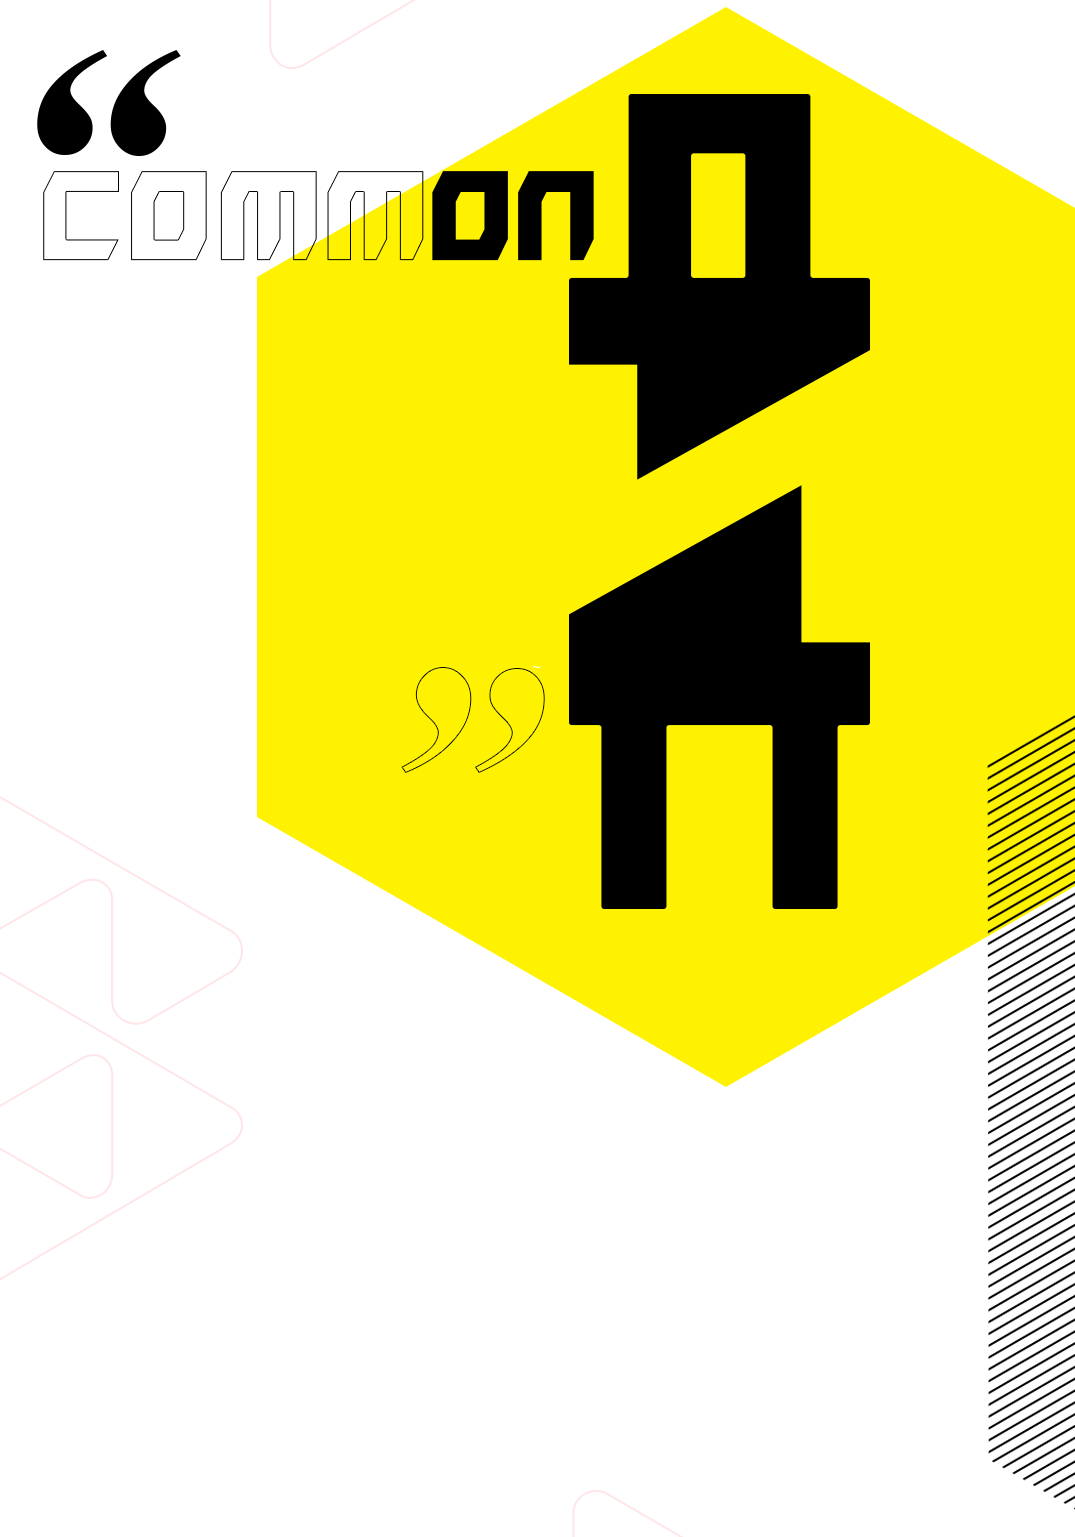
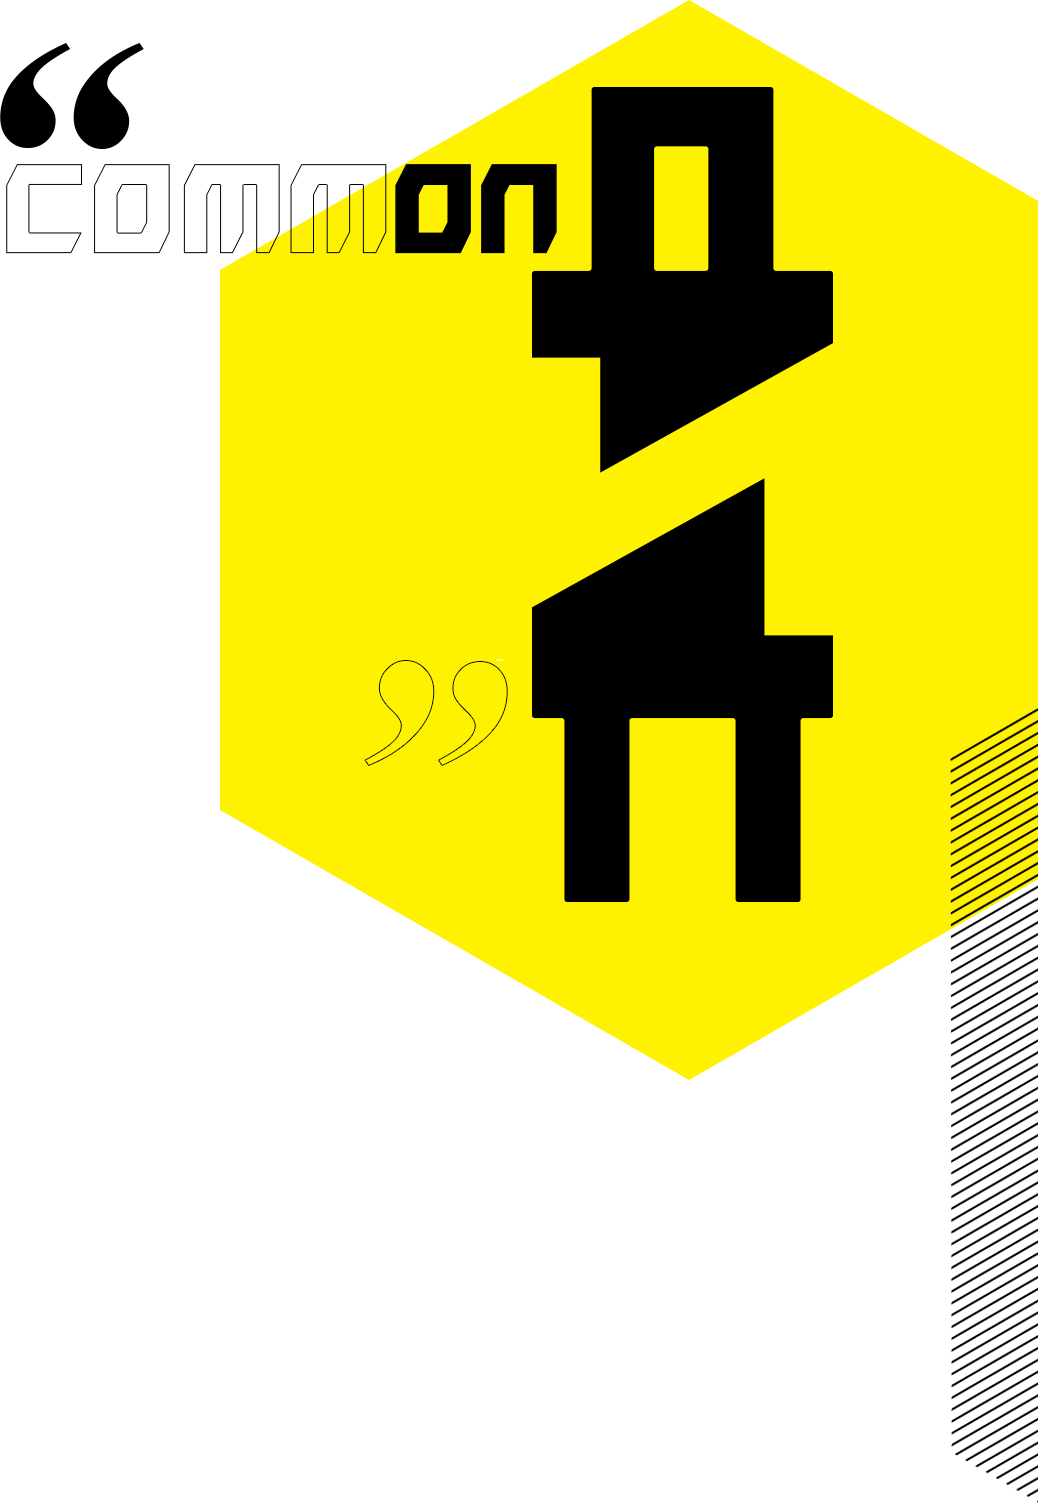
main card type 작업완료, 배열 작업중

diff --git a/src/css/03_card.css b/src/css/03_card.css
@@ -1,4 +1,5 @@
-.cardWrap{min-width:1220px;margin:40px -20px 0 0;z-index: 0;}
+.cardBox {width:1500px; overflow:hidden;}
+.cardWrap{min-width:1220px;margin:40px -20px 0 0;z-index: 1;}
 .cardWrap > li{overflow: hidden;float: left;width:285px;padding:84px 0; margin-top:-148px; text-align: center;color:#fefefe;background-size: 100%;background-position: center;}
 .cardWrap {padding-top:83px;}
 
@@ -7,18 +8,42 @@
 .cardLayer .cardWrap li {position:relative; background:none;}
 .cardLayer .cardWrap li + li {margin-left:10px;}
 
-.cardTitle {}
-.cardTitle .cardTitleCont {width:100%; position:relative;}
-.cardTitle .cardTitleCont .cardTitleBg {position:absolute; top:0; left:0;}
-.cardTitle.newForm {width:590px; height:716px; position:absolute; top:1292px; left:20px; background:green;}
-.cardTitle.common {width:896px; height:1064px; position:absolute; top:3034px; right:20px; background:green;}
-.cardTitle.specialist {width:1201px; height:1064px; position:absolute; top:5122px; right:20px; background:green;}
+.cardTitle {}/* z-index:3; */
+.cardTitle .cardTitleCont {width:100%; height:100%; position:relative;}
+.cardTitle .cardTitleCont .cardTitleBg {position:absolute; z-index:0;}
+.cardTitle .cardTitleCont .cardTitleSub {overflow:hidden; position:absolute;}
+.cardTitle .cardTitleCont .cardTitleSub .txt {color:#000; font-size:18px; font-family:'RobotoT','NotoSansT', sans-serif; line-height:130%;}
+.cardTitle .cardTitleCont .cardTitleSub .txt b {font-family:'RobotoM','NotoSansM', sans-serif;}
+.cardTitle .cardTitleCont .cardTitleSub a.more {display:inline-block; padding:14px 92px 14px 0; color:#000; font-size:14px; font-family:'RobotoL','NotoSansL', sans-serif; line-height:130%; background:url('../images/main_cardMore_btn.png') 100% 50% no-repeat;}
+.cardTitle .cardTitleCont .cardTitleSub a.more b {font-family:'RobotoM','NotoSansM', sans-serif;}
+.cardTitle.newForm {width:590px; height:716px; position:absolute; top:1292px; left:20px;}
+.cardTitle.newForm .cardTitleCont .cardTitleSub {width:368px; overflow:hidden; top:352px; right:0;}
+.cardTitle.newForm .cardTitleCont .cardTitleSub .more {margin-top:66px; float:right;}
+.cardTitle.common {width:896px; height:1064px; position:absolute; top:3034px; right:20px;}
+.cardTitle.common .cardTitleCont .cardTitleSub {width:619px; top:393px; left:0;}
+.cardTitle.common .cardTitleCont .cardTitleSub .txt {font-size:35px; text-align:right;}
+.cardTitle.specialist {width:1201px; height:1064px; position:absolute; top:5122px; right:20px;}
+.cardTitle.specialist .cardTitleCont .cardTitleSub {width:540px; top:71px; right:0;}
+.cardTitle.specialist .cardTitleCont .cardTitleSub .txt {width:100%; height:72px;}
+.cardTitle.specialist .cardTitleCont .cardTitleSub a.more {margin-top:175px; float:right;}
 .cardTitle.master {width:1201px; height:890px; position:absolute; top:7036px; left:20px; background:green;}
+.cardTitle.master .cardTitleCont .cardTitleSub {width:718px; margin-bottom:15px; top:781px; left:22px;}
+.cardTitle.master .cardTitleCont .cardTitleSub .txt {width:443px; float:left; font-size:18px;}
+.cardTitle.master .cardTitleCont .cardTitleSub .txt img {width:101px;}
+.cardTitle.master .cardTitleCont .cardTitleSub a.more {width:153px; float:right; text-align:right;}
+.cardTitle.master .cardTitleCont dl.cardTitleForm {width:754px; height:824px; background:url('../images/main_bg_master_form.png') 0 0 no-repeat; position:absolute; top:0; right:-111px;}
+.cardTitle.master .cardTitleCont dl.cardTitleForm dt {width:100%; padding:109px 0 56px; font-size:49px; color:#fdfdfb; text-align:center; font-family:'RobotoT','NotoSansT', sans-serif; font-style:italic;}
+.cardTitle.master .cardTitleCont dl.cardTitleForm dd {width:590px; padding-left:12px;}
+.cardTitle.master .cardTitleCont dl.cardTitleForm dd p.phoneTit {width:100%; text-align:center; font-size:20px; font-family:'RobotoR','NotoSansR', sans-serif; color:#fff;}
+.cardTitle.master .cardTitleCont dl.cardTitleForm dd .phoneIt {width:100%; text-align:center;}
+.cardTitle.master .cardTitleCont dl.cardTitleForm dd .phoneIt {}
+.cardTitle.master .cardTitleCont dl.cardTitleForm dd .phoneIt input[type=text] {float:left;}
+.cardTitle.master .cardTitleCont dl.cardTitleForm dd .phoneIt input[type=text] + input[type=text] {margin-left:5px;}
 
-.cardTitle.newForm .cardTitleCont .cardTitleBg {width:805px; height:1849px; background:url('../images/main_bg_newForm.png') 0 0 no-repeat;}
-.cardTitle.common .cardTitleCont .cardTitleBg {width:1075px; height:1537px; background:url('../images/main_bg_common.png') 0 0 no-repeat;}
-.cardTitle.specialist .cardTitleCont .cardTitleBg {width:1427px; height:1660px; background:url('../images/main_bg_specialist.png') 0 0 no-repeat;}
-.cardTitle.master .cardTitleCont .cardTitleBg {width:1006px; height:1271px; background:url('../images/main_bg_master.png') 0 0 no-repeat;}
+.cardTitle.newForm .cardTitleCont .cardTitleBg {width:805px; height:1849px; top:28px; right:0; background:url('../images/main_bg_newForm.png') 0 0 no-repeat;}
+.cardTitle.common .cardTitleCont .cardTitleBg {width:1075px; height:1537px; top:19px; left:65px; background:url('../images/main_bg_common.png') 0 0 no-repeat;}
+.cardTitle.specialist .cardTitleCont .cardTitleBg {width:1427px; height:1660px; top:-181px; left:-20px; background:url('../images/main_bg_specialist.png') 0 0 no-repeat;}
+.cardTitle.master .cardTitleCont .cardTitleBg {width:1006px; height:1271px; top:-274px; right:400px; background:url('../images/main_bg_master.png') 0 0 no-repeat;}
 
 /* hexagon css */
 .hexagon{position: absolute;top:85px;left: 0;width: 100%;background-position: center;background-repeat: no-repeat;margin: 82.27px 0;}
@@ -32,7 +57,7 @@
 
 .cardLine {width:163px; height:20px; padding-left:15px; transform:rotate(-29.65deg); position:absolute; top:126.5px; left:-19px; z-index:5; text-align:left;}
 .cardLine:after {content:''; width:0; position:absolute; top:4.5px; right:-15.1px; border-bottom:21.7px solid; border-right:12.7px solid transparent; border-left:12.5px solid transparent; transform:rotate(120deg);}
-.cardLine p {font-size:14px; font-style:italic; color:#fff; line-height:130%;}
+.cardLine p {font-size:14px; font-style:italic; color:#000; line-height:130%;}
 
 .cardCon{position:relative; z-index:4;top:0;display: block;width:265px;padding:81px 10px;color:#000;}
 .cardTop{position: absolute;top:0;left:0;z-index: 1}

diff --git a/src/index.html b/src/index.html
@@ -3196,25 +3196,60 @@
 				<div class="cardTitle newForm">
 					<div class="cardTitleCont">
 						<div class="cardTitleBg"></div>
-						newForm
+						<div class="cardTitleSub">
+							<p class="txt">커먼의 <b>뉴폼</b>은 마모뫄 마모뫄 <br/>마모뫄마모뫄 마모뫄마모뫄 <b>브랜드</b> 입니다.</p>
+							<a href="#" class="more"><b>뉴폼 리스트</b> 바로가기</a>
+						</div>
 					</div>
 				</div>
 				<div class="cardTitle common">
 					<div class="cardTitleCont">
 						<div class="cardTitleBg"></div>
-						common
+						<div class="cardTitleSub">
+							<p class="txt"><img src="images/txt_logo.png" alt="common"/>은 마모뫄 마모뫄 <br/>마모뫄마모뫄 마모뫄마모뫄 <br/><b>브랜드</b> 입니다.</p>
+						</div>
 					</div>
 				</div>
 				<div class="cardTitle specialist">
 					<div class="cardTitleCont">
 						<div class="cardTitleBg"></div>
-						specialist
+						<div class="cardTitleSub">
+							<p class="txt"><img src="images/txt_logo.png" alt="common"/>의 <b>뉴폼</b>은 마모뫄 마모뫄 <br/>마모뫄마모뫄 마모뫄마모뫄 <b>브랜드</b> 입니다.</p>
+							<a href="#" class="more"><b>전문가 리스트</b> 바로가기</a>
+						</div>
 					</div>
 				</div>
 				<div class="cardTitle master">
 					<div class="cardTitleCont">
 						<div class="cardTitleBg"></div>
-						masterlease
+						<div class="cardTitleSub">
+							<p class="txt">혁신적인 <img src="images/txt_logo.png" alt="common"/>의 마스터 리스 <br/>세입자 관리가 쉽지 않으신가요?  <br/>보증금 반환 대출, 시설 수리가 고민이 되시나요?  <br/>임대에 관한 모든 것, <img src="images/txt_logo.png" alt="common"/>이 도와 드리겠습니다.</p>
+							<a href="#" class="more"><b>마스터 리스</b> 바로가기</a>
+						</div>
+						<dl class="cardTitleForm">
+							<dt><img src="images/cardTitleForm_tit.png" alt="세입자 관리가 쉽지 않으신가요?"/></dt>
+							<dd>
+								<form method="post" action="/">
+									<fieldset>
+										<legend>상담전화 걸기</legend>
+										<p class="phoneTit">즉시 전화연결</p>
+										<div class="phoneIt">
+											<input type="text" title="" style="width:116px;"/>
+											<input type="text" title="" style="width:151px;"/>
+											<input type="text" title="" style="width:151px;"/>
+										</div>
+										<p class="phoneAg">
+											<input type="checkbox" id=""/><label for="">개인정보 수집이용 등에 대한 동의</label>
+											<a href="#" class="btnView">내용보기</a>
+										</p>
+									</fieldset> 
+								</form>
+							</dd>
+							<dd>
+								<p><em>02 - 3677- 3114</em>을 통한 상담도 가능합니다.</p>
+								<a href="#" class="startBtn">전화연결</a>
+							</dd>
+						</dl>
 					</div>
 				</div>
 			</div>

diff --git a/src/css/01_layout.css b/src/css/01_layout.css
@@ -205,7 +205,7 @@ fieldset legend {width:0; height:0; overflow:hidden; position:absolute; top:-999
 .container {position: relative;padding:60px 0 200px;}
 .main .container {padding-top:113px;}
 .container .wrap{overflow: hidden;position: relative;max-width: 1200px;margin:0 auto;padding:35px 10px;}
-.main .container .wrap{max-width: 1500px;padding:30px 20px 0; background:url('../images/main_wrap_bg.gif') 99% 0 repeat-y; position:relative;}
+.main .container .wrap{max-width: 1500px;padding:30px 20px 0; background:url('../images/main_wrap_bg.gif') 99% 0 repeat-y; position:relative;;}
 .container .sWrap{max-width: 780px;margin: 0 auto;}
 
 .main .container .mainVisual {width:100%; max-width:1920px; margin:0 auto 40px; overflow:hidden; position:relative;z-index: 1}
